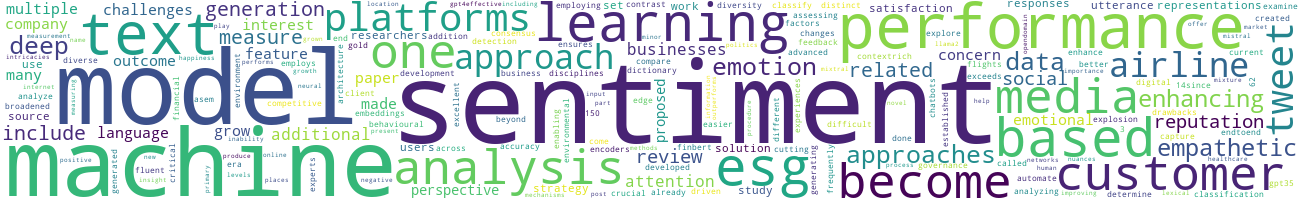
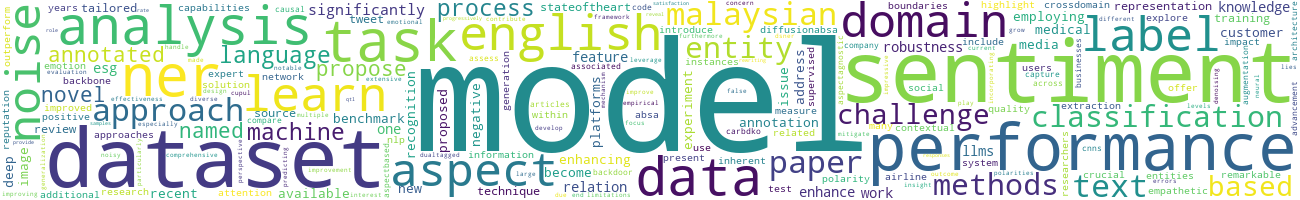
HTML Newsletter :sunglasses:

diff --git a/newsletter.html b/newsletter.html
@@ -1,0 +1,30 @@
+
+<html>
+<head>
+<style>
+body {
+  font-family: Arial, sans-serif;
+}
+</style>
+</head>
+<body>
+<img src="wordcloud.png" alt="Wordcloud" style="width: 100%; height: auto;">
+<p>Fernando,</p>
+<p>Here are your must read papers from the past 14 days.</p>
+<ol>
+<li>CARBD-Ko: A Contextually Annotated Review Benchmark Dataset for Aspect-Level Sentiment Classification in Korean</li><li>ESG Sentiment Analysis: comparing human and language model performance including GPT</li><li>Let's Rectify Step by Step: Improving Aspect-based Sentiment Analysis with Diffusion Models</li><li>ASEM: Enhancing Empathy in Chatbot through Attention-based Sentiment and Emotion Modeling</li><li>Domain Generalization via Causal Adjustment for Cross-Domain Sentiment Analysis</li><li>Rethinking Negative Instances for Generative Named Entity Recognition</li><li>A Machine Learning Approach to Detect Customer Satisfaction From Multiple Tweet Parameters</li><li>DistALANER: Distantly Supervised Active Learning Augmented Named Entity Recognition in the Open Source Software Ecosystem</li><li>Malaysian English News Decoded: A Linguistic Resource for Named Entity and Relation Extraction</li><li>LLM-DA: Data Augmentation via Large Language Models for Few-Shot Named Entity Recognition</li>
+</ol>
+<p>Overall this period, the 2 most active topics were:</p>
+<ul>
+<li>Text Segmentation (60 articles)</li><li>Multimodal Language Processing (46 articles)</li>
+</ul>
+<p>Of your interests, the 4 most active topics were:</p>
+<ul>
+<li>Text Classification (19 articles)</li><li>Named Entity Recognition (NER) (8 articles)</li><li>Sentiment Extraction (6 articles)</li><li>Sentiment Analysis (6 articles)</li>
+</ul>
+<br>
+<p>Happy reading!</p>
+<p>NLPress</p>
+
+</body>
+</html>

diff --git a/newsletter.py b/newsletter.py
@@ -1,5 +1,6 @@
 # WIP
 
+import webbrowser
 import topic_classifier.paper_processor as pp
 import firebase_manager
 import article_database
@@ -16,16 +17,7 @@ today = datetime.datetime.now().replace(
 
 # get midnight of the day the user last received a newsletter
 last_sent = today - datetime.timedelta(days=user.newsletter_period)
-print()
-print("-"*40)
-print("To:", user.email)
-print("Subject: Your NLP newsletter")
-print()
-print("Fernando,")  # change so its the user's name
-print("Your NLP recap is here!")
-print()
 adb = article_database.ArticleDatabase()
-
 interest_articles = adb.get_articles(sort=None, interests=user.interests,
                                      start_date=last_sent, stop_date=today)
 
@@ -56,7 +48,6 @@ def tag_counter(articles):
 
 general_articles = adb.get_articles(
     sort=None, interests=[], ignore_interests=True, start_date=last_sent, stop_date=today)
-
 interest_wrapped = []
 tag_count = tag_counter(general_articles)
 for interest in user.interests:
@@ -68,41 +59,56 @@ general_wrapped = nlp_wrapped(general_articles)
 big_abstract = ""
 for article, score in interest_articles:
     big_abstract += article.abstract
-
+if big_abstract == "":
+    print("No articles found for your interests in the past",
+          user.newsletter_period, "days.")
+    exit()
 wc = wordcloud.WordCloud(
     background_color="rgba(255, 255, 255, 0)", mode="RGBA", width=1300, height=200, collocations=False, colormap="viridis")
-# toks = pp.tokenize(big_abstract)
-# big_abstract = " ".join(toks)
 wc.generate_from_frequencies(
     pp.tf(big_abstract))
 wc.to_file("wordcloud.png")
 
 
-print(f"Here are your must read papers from the past {
-      user.newsletter_period} days."),
-
+mustread = []
 interest_articles = interest_articles[:10]
 c = 0
 for article, score in interest_articles[:10]:
     c += 1
     date_nice = article.published.strftime("%B %d, %Y")
-    print(str(c)+".", article.title)
+    mustread.append(article.title)
 
-print()
 
-print(f"Overall this period, the {
-      len(general_wrapped)} most active topics were:")
-for tag, count in general_wrapped:
-    print(f"  {tag} ({count} articles)")
-print()
-
-print(f"Of your interests, the {
-      len(interest_wrapped)} most active topics were:")
-for tag, count in interest_wrapped:
-    print(f"  {tag} ({count} articles)")
-
-print()
-print()
-print("Happy reading!")
-print("NLPress")
-print("-"*40)
+out = f"""
+<html>
+<head>
+<style>
+body {"{"}
+  font-family: Arial, sans-serif;
+{"}"}
+</style>
+</head>
+<body>
+<img src="wordcloud.png" alt="Wordcloud" style="width: 100%; height: auto;">
+<p>Fernando,</p>
+<p>Here are your must read papers from the past {user.newsletter_period} days.</p>
+<ol>
+{"".join([f'<li>{title}</li>' for title in mustread])}
+</ol>
+<p>Overall this period, the {len(general_wrapped)} most active topics were:</p>
+<ul>
+{"".join([f'<li>{tag} ({count} articles)</li>' for tag, count in general_wrapped])}
+</ul>
+<p>Of your interests, the {len(interest_wrapped)} most active topics were:</p>
+<ul>
+{"".join([f'<li>{tag} ({count} articles)</li>' for tag, count in interest_wrapped])}
+</ul>
+<br>
+<p>Happy reading!</p>
+<p>NLPress</p>
+</body>
+</html>
+"""
+with open("newsletter.html", "w") as f:
+    f.write(out)
+webbrowser.open("newsletter.html")

diff --git a/collector.py b/collector.py
@@ -35,8 +35,12 @@ def getArxivData(search_query, start=0, max_results=10, sortBy="submittedDate"):
             entry['author'] = author_names
             entry['authors'] = author_names
         except TypeError:
-            entry['authors'] = [entry['author']['name']]
-            entry['author'] = [entry['author']['name']]
+            try:
+                entry['authors'] = [entry['author']['name']]
+                entry['author'] = [entry['author']['name']]
+            except TypeError:
+                print("Some error with", entry)
+                continue
         # print(entry['author'])
         if entry['authors'] == []:
             print("NO AUTHORS", entry)
@@ -98,7 +102,7 @@ if __name__ == "__main__":
         start += 100
         if len(results) == 0:
             print("Stopped by arxiv API. No more results.")
-            if retries > 3:
+            if retries >= 2:
                 inDateRange = False
                 break
             time.sleep(5)

diff --git a/server.py b/server.py
@@ -18,7 +18,8 @@ def get_articles():
     sortby = request.args.get('sort_by')
 
     interests = fb.interests(userid)
-    articles = [a[0] for a in adb.get_articles(sortby, 0, 10, interests)]
+    articles = [a[0]
+                for a in adb.get_articles(sort=sortby, interests=interests)]
     output = []
     for article in articles:
         output.append(article.toJSON())
